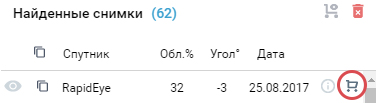
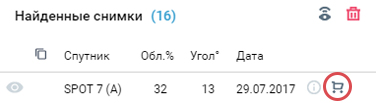
Замена изображений на более актуальные

diff --git a/index.html b/index.html
@@ -5,6 +5,6 @@
         <title></title>
     </head>
     <body>
-        <a href="Catalog/index.html">Catalog manual</a>
+        <a href="./catalog/index.html">Catalog manual</a>
     </body>
 </html>
